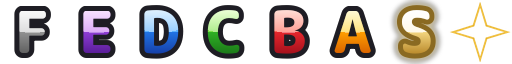
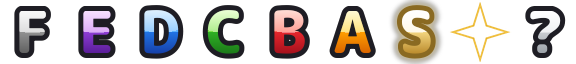
Hidden picks' stats show a "?" tile drawn like the grade letters

diff --git a/crates/hst/src/play/main_menu/roster.rs b/crates/hst/src/play/main_menu/roster.rs
@@ -386,14 +386,6 @@ pub(super) fn ellipsis(d: &Draw, s: &str, size: f32, max: f32) -> String {
     format!("{}...", cut.trim_end())
 }
 
-/// Words with a thin dark ring (four ways round: the stats card's labels).
-fn ringed_text(d: &mut Draw, s: &str, x: f32, y: f32, size: f32, rgb: [f32; 3]) {
-    for (dx, dy) in [(-1.0, -1.0), (1.0, -1.0), (-1.0, 1.0), (1.0, 1.0)] {
-        d.text(s, x + dx * PX, y + dy * PY, size, [40.0, 14.0, 30.0]);
-    }
-    d.text(s, x, y, size, rgb);
-}
-
 /// The legend's □ / Tab art (`Tex::Glyph`'s), the mode pill's button.
 pub(super) const MODE_GLYPH: u8 = 4;
 
@@ -1405,10 +1397,8 @@ fn meters(d: &mut Draw, grades: Option<[u8; 5]>, [x, y, w, h]: [f32; 4], row: f3
         let cell = [x + w - lt, ry, lt, rh];
         match g {
             Some(g) => letter(d, g, cell),
-            None => {
-                let qs = rh * 0.7;
-                ringed_text(d, "?", cell[0] + (lt - d.width("?", qs)) / 2.0, ry + (rh - qs) / 2.0, qs, hex(0xc8ccd0));
-            }
+            // the sheet's "?" tile, past the letters and the sparkle
+            None => letter(d, 8, cell),
         }
     }
 }
@@ -1435,8 +1425,8 @@ fn letter(d: &mut Draw, g: u8, [x, y, w, h]: [f32; 4]) {
     let c = h.min(w * PY / PX);
     let cw = c * PX / PY;
     let (cx, cy) = (x + (w - cw) / 2.0, y + (h - c) / 2.0);
-    d.q(Tex::Grades, [64.0 * f32::from(g.min(6)), 0.0, 64.0, 64.0], [cx, cy, cw, c], WHITE, 128.0);
-    if g > 5 {
+    d.q(Tex::Grades, [64.0 * f32::from(if g == 8 { 8 } else { g.min(6) }), 0.0, 64.0, 64.0], [cx, cy, cw, c], WHITE, 128.0);
+    if (6..8).contains(&g) {
         for (k, [sx, sy, size]) in [[0.88, 0.1, 0.42], [0.08, 0.45, 0.3], [0.86, 0.88, 0.28]].into_iter().enumerate() {
             let a = ((d.clock / 1.8 + k as f32 / 3.0).fract() * std::f32::consts::TAU).sin().max(0.0);
             let s = size * c * (0.4 + 0.6 * a);

diff --git a/tools/grade_tiles.py b/tools/grade_tiles.py
@@ -1,6 +1,6 @@
 #!/usr/bin/env python3
 """Draws the select card's grade letters (our own art) into crates/hst/assets/grades.png: one 64-px cell per grade,
-F E D C B A S left to right, then a sparkle star for S's twinkle. Chunky rounded capitals (the menu's own M PLUS Rounded
+F E D C B A S left to right, then a sparkle star for S's twinkle, then "?" for a hidden pick. Chunky rounded capitals (the menu's own M PLUS Rounded
 ExtraBold), a dark rim, a glossy two-tone fill in the grade's colour; S white-gold with a warm halo.
 Run from the repo root: python3 tools/grade_tiles.py"""
 from PIL import Image, ImageDraw, ImageFilter, ImageFont
@@ -16,6 +16,7 @@ COLOURS = {
     "B": ["#ffc6b8", "#ff6150", "#e3262c", "#a3101c"],
     "A": ["#fff7b8", "#ffd02a", "#ff9d00", "#d86200"],
     "S": ["#ffffff", "#fff6da", "#f2d47e", "#b9892a"],
+    "?": ["#ffffff", "#e4e7ea", "#c8ccd0", "#9aa0a6"],
 }
 
 
@@ -79,8 +80,9 @@ def star():
     return img.resize((C, C), Image.LANCZOS)
 
 
-sheet = Image.new("RGBA", (8 * C, C), (0, 0, 0, 0))
+sheet = Image.new("RGBA", (9 * C, C), (0, 0, 0, 0))
 for i, letter in enumerate("FEDCBAS"):
     sheet.paste(tile(letter), (i * C, 0))
 sheet.paste(star(), (7 * C, 0))
+sheet.paste(tile("?"), (8 * C, 0))
 sheet.save("crates/hst/assets/grades.png", optimize=True)

diff --git a/RELEASE_NOTES.md b/RELEASE_NOTES.md
@@ -41,3 +41,4 @@
 - With a Safe Area margin set, the score panel's strips past the margin now vanish together with the rest of the panel when a rally starts, instead of lingering a frame.
 - On the website, a controller can now move between the buttons (d-pad or stick), press them (A), and start the game (Start).
 - In Miyabi Grove, an umbrella you walk under now stays lowered while you stand there instead of snapping back up.
+- A hidden pick's stats show a "?" tile in the same style as the grade letters.
